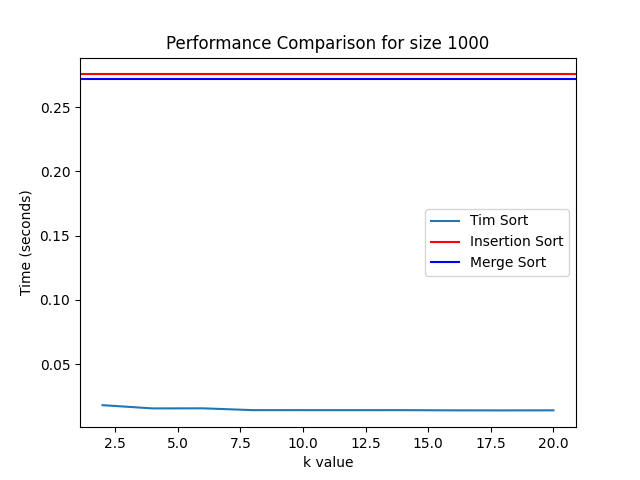
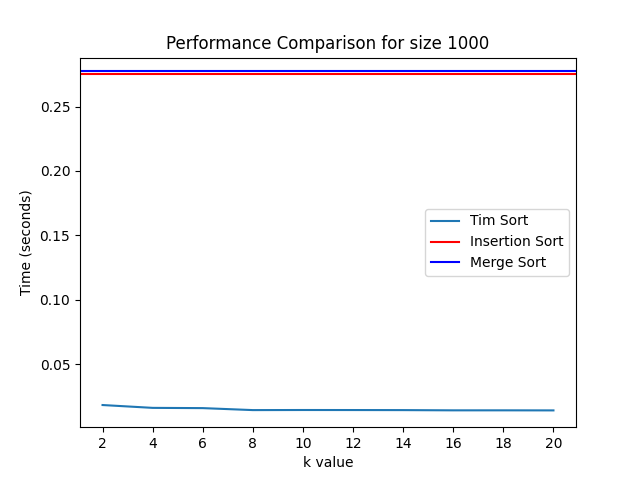
k value update

diff --git a/Q2 - Hybrid sorting/tim_sort.py b/Q2 - Hybrid sorting/tim_sort.py
@@ -26,26 +26,26 @@ class SortingAlgorithms:
             self.merge_sort(L, k)
             self.merge_sort(R, k)
 
-            i = j = k = 0
+            i = j = m = 0
 
             while i < len(L) and j < len(R):
                 if L[i] < R[j]:
-                    arr[k] = L[i]
+                    arr[m] = L[i]
                     i += 1
                 else:
-                    arr[k] = R[j]
+                    arr[m] = R[j]
                     j += 1
-                k += 1
+                m += 1
 
             while i < len(L):
-                arr[k] = L[i]
+                arr[m] = L[i]
                 i += 1
-                k += 1
+                m += 1
 
             while j < len(R):
-                arr[k] = R[j]
+                arr[m] = R[j]
                 j += 1
-                k += 1
+                m += 1
         return arr
 
 def experiment():
@@ -84,20 +84,22 @@ def experiment():
         plt.xlabel('k value')
         plt.ylabel('Time (seconds)')
         plt.title(f'Performance Comparison for size {size}')
+        plt.xticks(k_values)  # Set x-axis ticks to full numbers
         plt.legend()
         plt.savefig(os.path.join(output_dir, f'tim_sort_performance_{size}.png'))
         plt.close()
 
+    # Generate the overall optimal k value graph
     avg_overall_tim_sort_times = {k: sum(times) / len(times) for k, times in overall_tim_sort_times.items()}
     plt.figure()
     plt.plot(k_values, [avg_overall_tim_sort_times[k] for k in k_values], label='Tim Sort')
     plt.xlabel('k value')
     plt.ylabel('Average Time (seconds)')
     plt.title('Optimal k Value Determination')
+    plt.xticks(k_values)  # Set x-axis ticks to full numbers
     plt.legend()
     plt.savefig(os.path.join(output_dir, 'tim_sort_optimal_k.png'))
     plt.close()
 
 if __name__ == '__main__':
     experiment()
-
